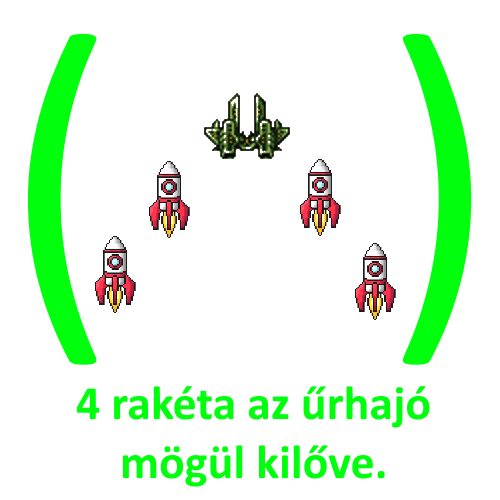
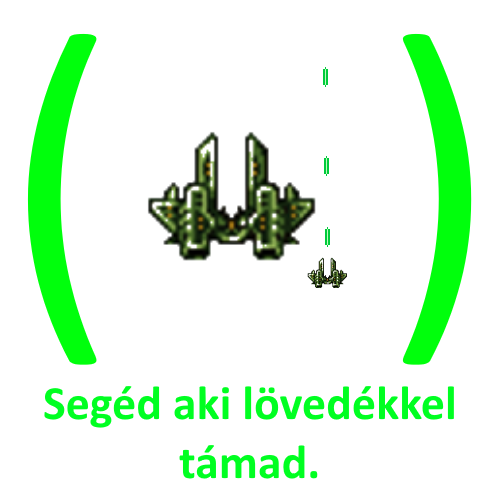
special powers work

diff --git a/src/main/java/com/intergalactic_fighters/Player.java b/src/main/java/com/intergalactic_fighters/Player.java
@@ -45,10 +45,13 @@ public class Player {
     private boolean power3 = false;
     private boolean power4 = false;
     private boolean power5 = false;
-    private boolean power6 = false;
-    private boolean power7 = false;
-    private boolean power8 = false;
     protected int green_shield = -1;
+    protected int yellow_shield = -1;
+    private Player tars1;
+    private Player tars_laser;
+    private int tars1_shoot = -1;
+    private int tars_laser_shoot = -1;
+    private int laser_shoot = -1;
 
     /**
      * <p>
@@ -73,7 +76,7 @@ public class Player {
         direction = new Point(0, -1);
         bulletSpeed = 7.0;
         setImage(new ImageIcon(this.getClass().getResource("/images/playership.png")).getImage());
-        if (name.contains("Player")) {
+        if (name.contains("Player") && name != "Player_tars") {
             shield = new ImageIcon(this.getClass().getResource("/images/shield_green.png")).getImage();
         }
     }
@@ -187,6 +190,8 @@ public class Player {
      * @param yOffset offset in y axis
      */
     public void draw(Graphics g, double zoomLevel, int xOffset, int yOffset) {
+        if(tars1 != null) tars1.draw(g, zoomLevel, xOffset, yOffset);
+        if(tars_laser != null) tars_laser.draw(g, zoomLevel, xOffset, yOffset);
         g.drawImage(image, (int) (x * zoomLevel + xOffset), (int) (y * zoomLevel + yOffset), (int) (width * zoomLevel), (int) (height * zoomLevel), null);
         if (!canLoseHp) {
             g.drawImage(shield, (int) (x * zoomLevel + xOffset), (int) (y * zoomLevel + yOffset), (int) (width * zoomLevel), (int) (height * zoomLevel), null);
@@ -213,6 +218,8 @@ public class Player {
      * Set the direction of movement and also the image </p>
      */
     public void moveForward() {
+                if(tars1 != null) tars1.moveForward();
+        if(tars_laser != null) tars_laser.moveForward();
         moveY = -1;
         direction = new Point(0, -1);
         setImage(new ImageIcon(this.getClass().getResource("/images/playership.png")).getImage());
@@ -224,6 +231,8 @@ public class Player {
      * Set the direction of movement and also the image </p>
      */
     public void moveBackward() {
+                if(tars1 != null) tars1.moveBackward();
+        if(tars_laser != null) tars_laser.moveBackward();
         moveY = 1;
         direction = new Point(0, 1);
         setImage(new ImageIcon(this.getClass().getResource("/images/playershipdown.png")).getImage());
@@ -235,6 +244,8 @@ public class Player {
      * Set the direction of movement and also the image </p>
      */
     public void moveRight() {
+                if(tars1 != null) tars1.moveRight();
+        if(tars_laser != null) tars_laser.moveRight();
         moveX = 1;
         direction = new Point(1, 0);
         setImage(new ImageIcon(this.getClass().getResource("/images/playershipright.png")).getImage());
@@ -246,6 +257,8 @@ public class Player {
      * Set the direction of movement and also the image </p>
      */
     public void moveLeft() {
+        if(tars1 != null) tars1.moveLeft();
+        if(tars_laser != null) tars_laser.moveLeft();
         moveX = -1;
         direction = new Point(-1, 0);
         setImage(new ImageIcon(this.getClass().getResource("/images/playershipleft.png")).getImage());
@@ -257,6 +270,8 @@ public class Player {
      * Null the direction in Y axis </p>
      */
     public void setZeroY() {
+        if(tars1 != null) tars1.setZeroY();
+        if(tars_laser != null) tars_laser.setZeroY();
         moveY = 0;
     }
 
@@ -266,6 +281,8 @@ public class Player {
      * Null the direction in X axis </p>
      */
     public void setZeroX() {
+        if(tars1 != null) tars1.setZeroX();
+        if(tars_laser != null) tars_laser.setZeroX();
         moveX = 0;
     }
 
@@ -275,6 +292,8 @@ public class Player {
      * Move speed ammount of pixels in direction Also call collect() method</p>
      */
     public void move() {
+        if(tars1 != null) tars1.move();
+        if(tars_laser != null) tars_laser.move();
         if (x + moveX * speed > 0 && x + moveX * speed < 800 / GameEngine.zoomLevel - width) {
             x += moveX * speed;
         } else {
@@ -304,9 +323,9 @@ public class Player {
         if (!inBox(0, 0, (int) (800 / GameEngine.zoomLevel))) {
             isDead = true;
         }
-        if (power5) {
+        if (power3) {
             green_shield = 30;
-            power5 = false;
+            power3 = false;
             canLoseHp = false;
         }
         if (green_shield < 30 && green_shield > 0) {
@@ -316,8 +335,44 @@ public class Player {
             green_shield = 30;
             canLoseHp = false;
         }
+        
+        if(tars1 != null && tars1_shoot == -1){
+            tars1_shoot = 45;
+            tars1.shoot();
+        }
+        else if(tars1 != null){
+            tars1_shoot--;
+        }
+        
+        if(tars_laser != null && tars_laser_shoot == -1){
+            tars_laser_shoot = 90;
+            tars_laser.lasering(5);
+        }
+        else if(tars1 != null){
+            tars_laser_shoot--;
+        }
+        if(power2 && laser_shoot == -1){
+            tars_laser_shoot = 90;
+            lasering(5);
+        }
+        else if(power2){
+            tars_laser_shoot--;
+        }
+        if(power4 && tars1 == null){
+            tars1 = new Player("Player_tars", x+40, y+10, (int)(width/3), (int)(height/3));
+        }
+        if(power5 && tars_laser == null){
+            tars_laser = new Player("Player_tars", x-10, y+10, (int)(width/3), (int)(height/3));
+        }
     }
 
+    public void lasering(int iksz){
+        if(!hasLaser){
+            l = new Laser(direction, "player", iksz);
+            hasLaser = true;
+        }
+    }
+    
     public void setMaxBullets() {
         this.maxBullets *= 2;
     }

diff --git a/src/main/java/com/intergalactic_fighters/GameEngine.java b/src/main/java/com/intergalactic_fighters/GameEngine.java
@@ -126,7 +126,7 @@ public class GameEngine extends JPanel {
         back1.setPosY(-800);
         backs.add(back1);
         powers = new ArrayList<Integer>();
-        for (int i = 1; i < 9; i++) {
+        for (int i = 1; i < 6; i++) {
             powers.add(i);
         }
     }
@@ -277,7 +277,7 @@ public class GameEngine extends JPanel {
     private void collectPower(int i) {
         left = null;
         right = null;
-        if(i == 1){
+        if (i == 1) {
             Players.get(0).setPower1(true);
             Players.get(0).setMaxBullets();
         }
@@ -326,33 +326,54 @@ public class GameEngine extends JPanel {
                         powerups.add(p);
                     }
                 }
-                if ((zoomTimer > 20 || zoomTimer < 19) && zoomTimer > 0) {
-                    zoomTimer--;
-                    for (int i = 0; i < backs.size(); i++) {
-                        if (zoomTimer > 100) {
-                            backs.get(i).setSpeed((200 - zoomTimer) / 2);
-                        } else {
-                            backs.get(i).setSpeed(zoomTimer / 2);
+                if (level < 5) {
+                    if ((zoomTimer > 20 || zoomTimer < 19) && zoomTimer > 0) {
+                        zoomTimer--;
+                        for (int i = 0; i < backs.size(); i++) {
+                            if (zoomTimer > 100) {
+                                backs.get(i).setSpeed((200 - zoomTimer) / 2);
+                            } else {
+                                backs.get(i).setSpeed(zoomTimer / 2);
+                            }
+                        }
+                        if (zoomTimer < 19) {
+                            Players.get(0).moveBackward();
+                        }
+                    } else if (zoomTimer == 20) {
+                        int rand1 = (r.nextInt(powers.size()));
+                        int rand2;
+                        do {
+                            rand2 = (r.nextInt(powers.size()));
+                        } while (rand1 == rand2);
+                        left = new PowerUpgrade((int) (800 / zoomLevel) / 4, (int) (100 / zoomLevel), powers.get(rand1));
+                        right = new PowerUpgrade((int) (((800 / zoomLevel) / 4) * 3) - 100, (int) (100 / zoomLevel), powers.get(rand2));
+                        zoomTimer--;
+                    } else if (zoomTimer == 0) {
+                        set();
+                        for (int i = 0; i < backs.size(); i++) {
+                            backs.get(i).setSpeed(1);
+                        }
+                        zoomTimer--;
+                    }
+                } else {
+                    if (zoomTimer > 0) {
+                        zoomTimer--;
+                        for (int i = 0; i < backs.size(); i++) {
+                            if (zoomTimer > 100) {
+                                backs.get(i).setSpeed((200 - zoomTimer) / 2);
+                            } else {
+                                backs.get(i).setSpeed(zoomTimer / 2);
+                            }
                         }
                     }
-                    if (zoomTimer < 19) {
-                        Players.get(0).moveBackward();
+                    else if (zoomTimer == 0) {
+                        set();
+                        for (int i = 0; i < backs.size(); i++) {
+                            backs.get(i).setSpeed(1);
+                        }
+                        zoomTimer--;
                     }
-                } else if (zoomTimer == 20) {
-                    int rand1 = (r.nextInt(powers.size()));
-                    int rand2;
-                    do {
-                        rand2 = (r.nextInt(powers.size()));
-                    } while (rand1 == rand2);
-                    left = new PowerUpgrade((int) (800 / zoomLevel) / 4, (int) (100 / zoomLevel), powers.get(rand1));
-                    right = new PowerUpgrade((int) (((800 / zoomLevel) / 4) * 3) - 100, (int) (100 / zoomLevel), powers.get(rand2));
-                    zoomTimer--;
-                } else if (zoomTimer == 0) {
-                    set();
-                    for (int i = 0; i < backs.size(); i++) {
-                        backs.get(i).setSpeed(1);
-                    }
-                    zoomTimer--;
+
                 }
                 repaint();
             } catch (NullPointerException e)//ezt meg meg kellene oldani.
